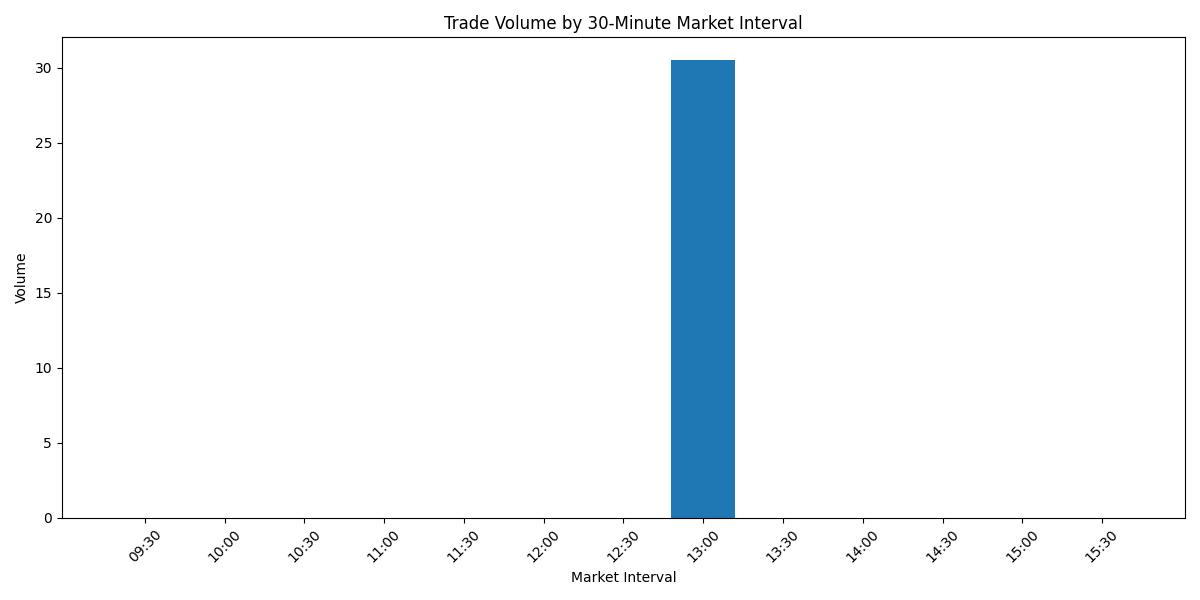
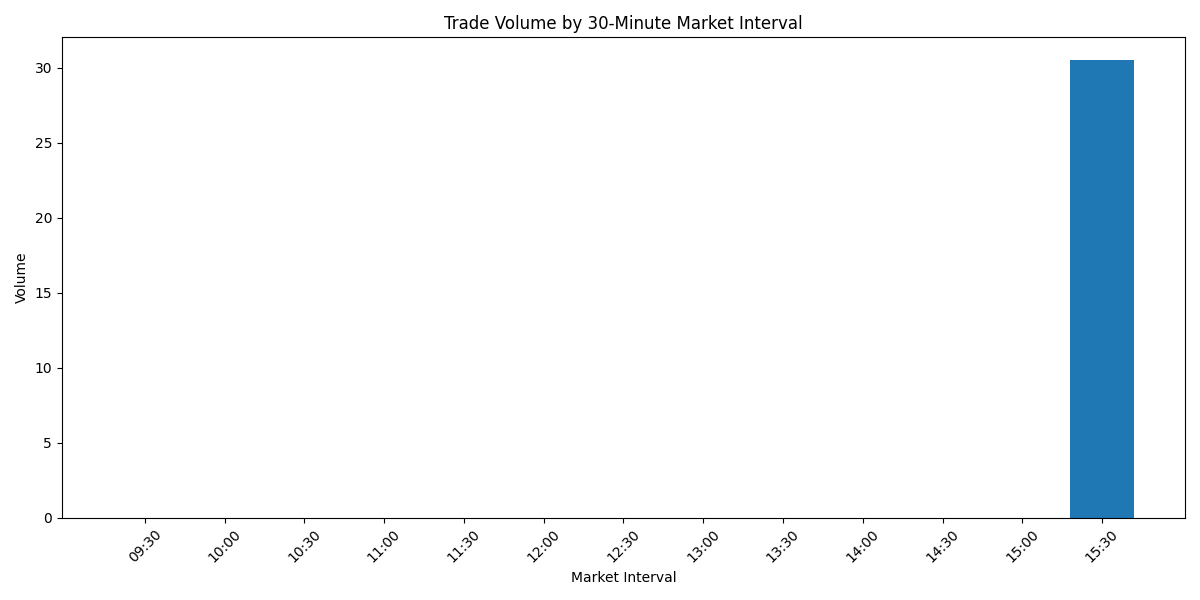
Done for the day more analytics to do

Changed region(s): [[0.8942, 0.09, 0.9558, 0.87], [0.555, 0.09, 0.6167, 0.87]]

diff --git a/analytics/misc_functions.py b/analytics/misc_functions.py
@@ -1,8 +1,11 @@
 from datetime import datetime
 
 def get_date_tag():
-    now = datetime.now()
-    return now.month, now.year, f"{now.year}_{now.month:02d}"
+    # now = datetime.now()
+    # return now.month, now.year, f"{now.year}_{now.month:02d}"
+    a = "09"
+    b = "2024"
+    return a, b, f"{b}_{a}"
 
 def get_previous_month_trades_query():
     month, year, date_tag = get_date_tag()
@@ -11,7 +14,8 @@ def get_previous_month_trades_query():
         year -= 1
     else:
         month -= 1
-        
+    
+    date_tag = f"{year}_{month:02d}"
     return f"""
     WITH filtered_trades AS (
         SELECT t.*
@@ -40,5 +44,3 @@ def get_current_month_trades_query():
     JOIN orders o ON ft.order_id = o.order_id
     JOIN holdings h ON o.user_id = h.user_id AND o.asset_id = h.asset_id;
     """
-    
-
